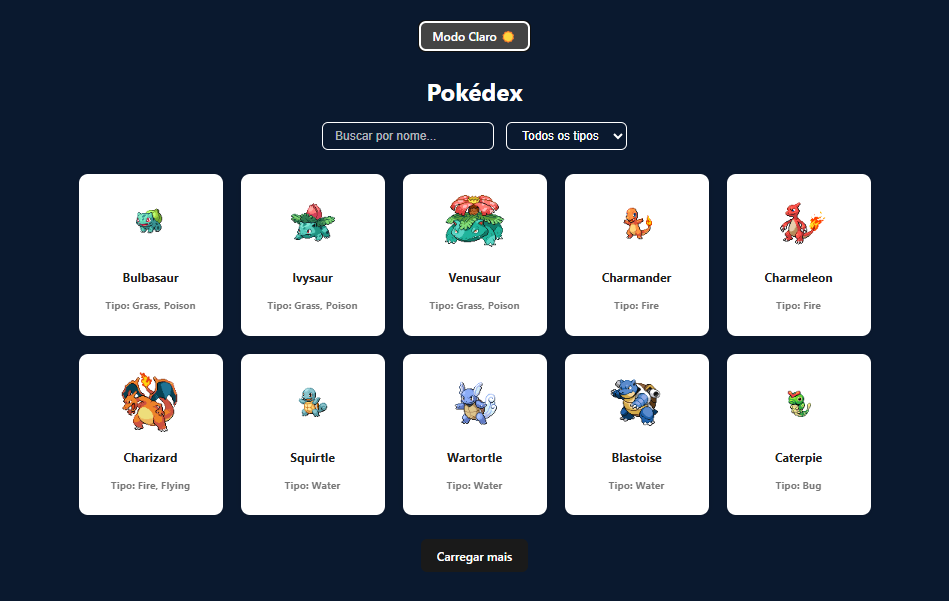
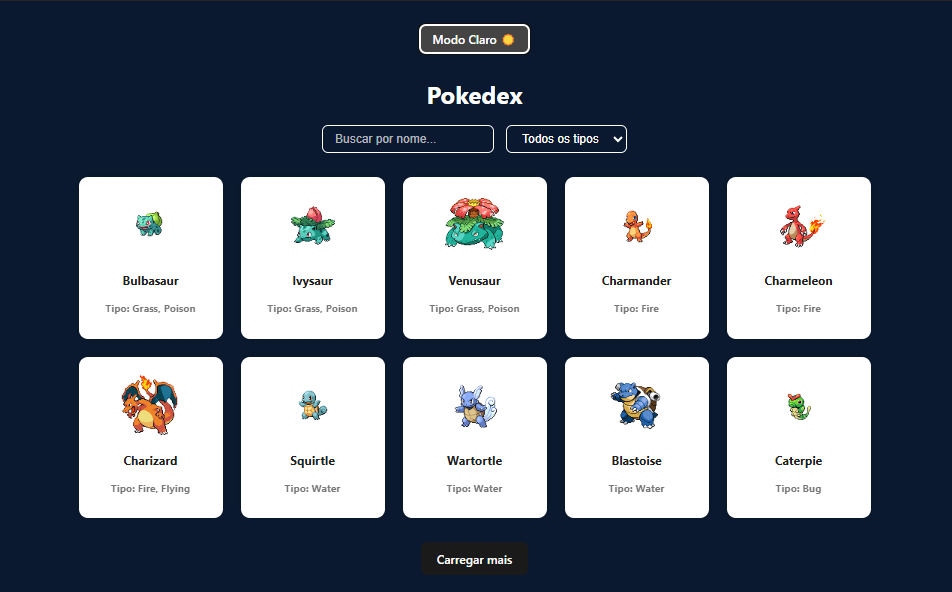
Atualização Readme.md

diff --git a/src/Pages/home.jsx b/src/Pages/home.jsx
@@ -68,7 +68,7 @@ function Home() {
   return (
     <Container data-testid="home-page">
       <ThemeButton />
-      <Titulo>Pokédex</Titulo>
+      <Titulo>Pokedex</Titulo>
 
       <Filter
         searchName={searchName}

diff --git a/README.md b/README.md
@@ -1,6 +1,6 @@
-# 📘 Pokédex React
+# 📘 Pokedex React
 
-Uma Pokédex desenvolvida com React, integrando a PokéAPI, com alternância de tema claro/escuro estilizado, busca por nome e filtro por tipo. O projeto é responsivo, utiliza boas práticas de componentização e inclui testes automatizados com Jest e Testing Library.
+Uma Pokédex desenvolvida com React, integrando a PokeAPI, com alternância de tema claro/escuro estilizado, busca por nome e filtro por tipo. O projeto é responsivo, utiliza boas práticas de componentização e inclui testes automatizados com Jest e Testing Library.
 
 > Criado com foco em aprendizado, qualidade de código e exibição em portfólio front-end.
 
@@ -84,7 +84,7 @@ O projeto conta com um **modo escuro exclusivo**, com fundo em `#0a192f` (azul e
 
 ```bash
 git clone https://github.com/pamella-binotto/Pokedex-React.git
-cd pokedex-react
+cd Pokedex-React
 ```
 
 ### 2. Instale as dependências
